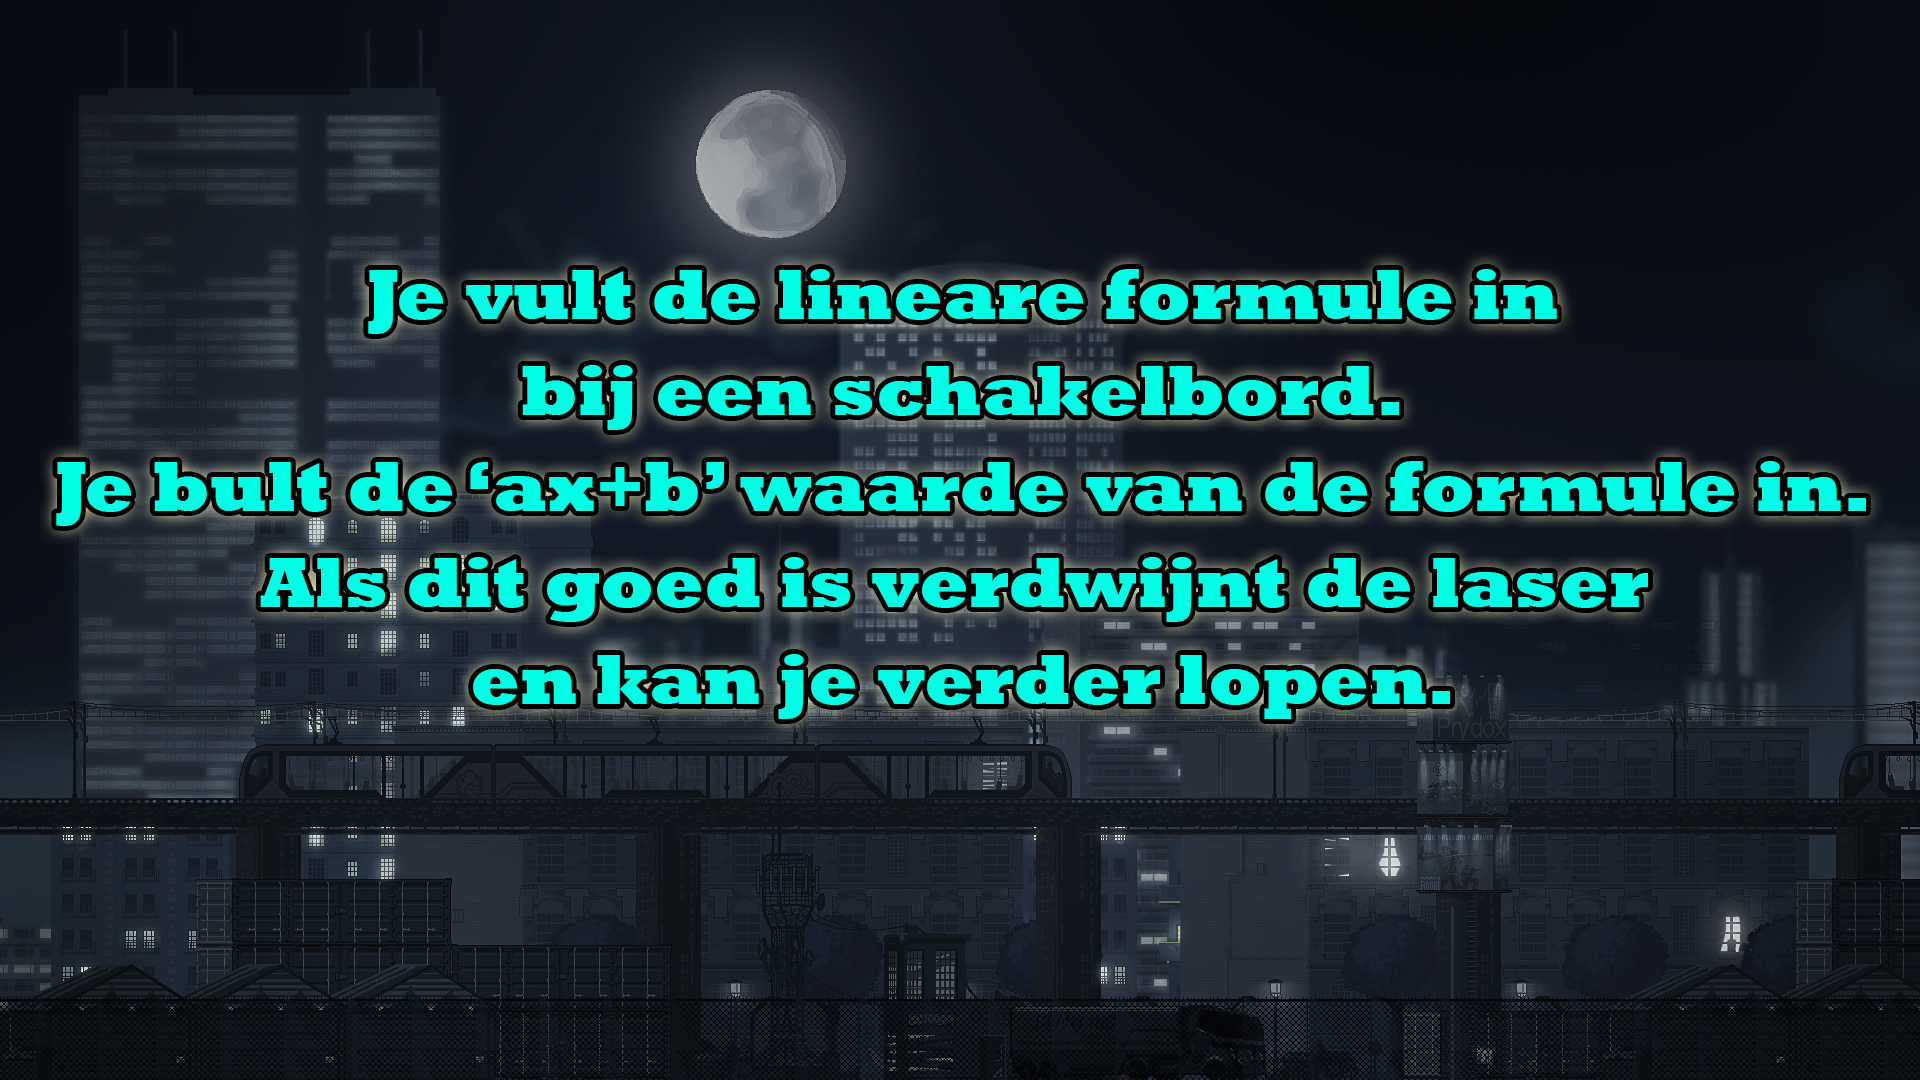
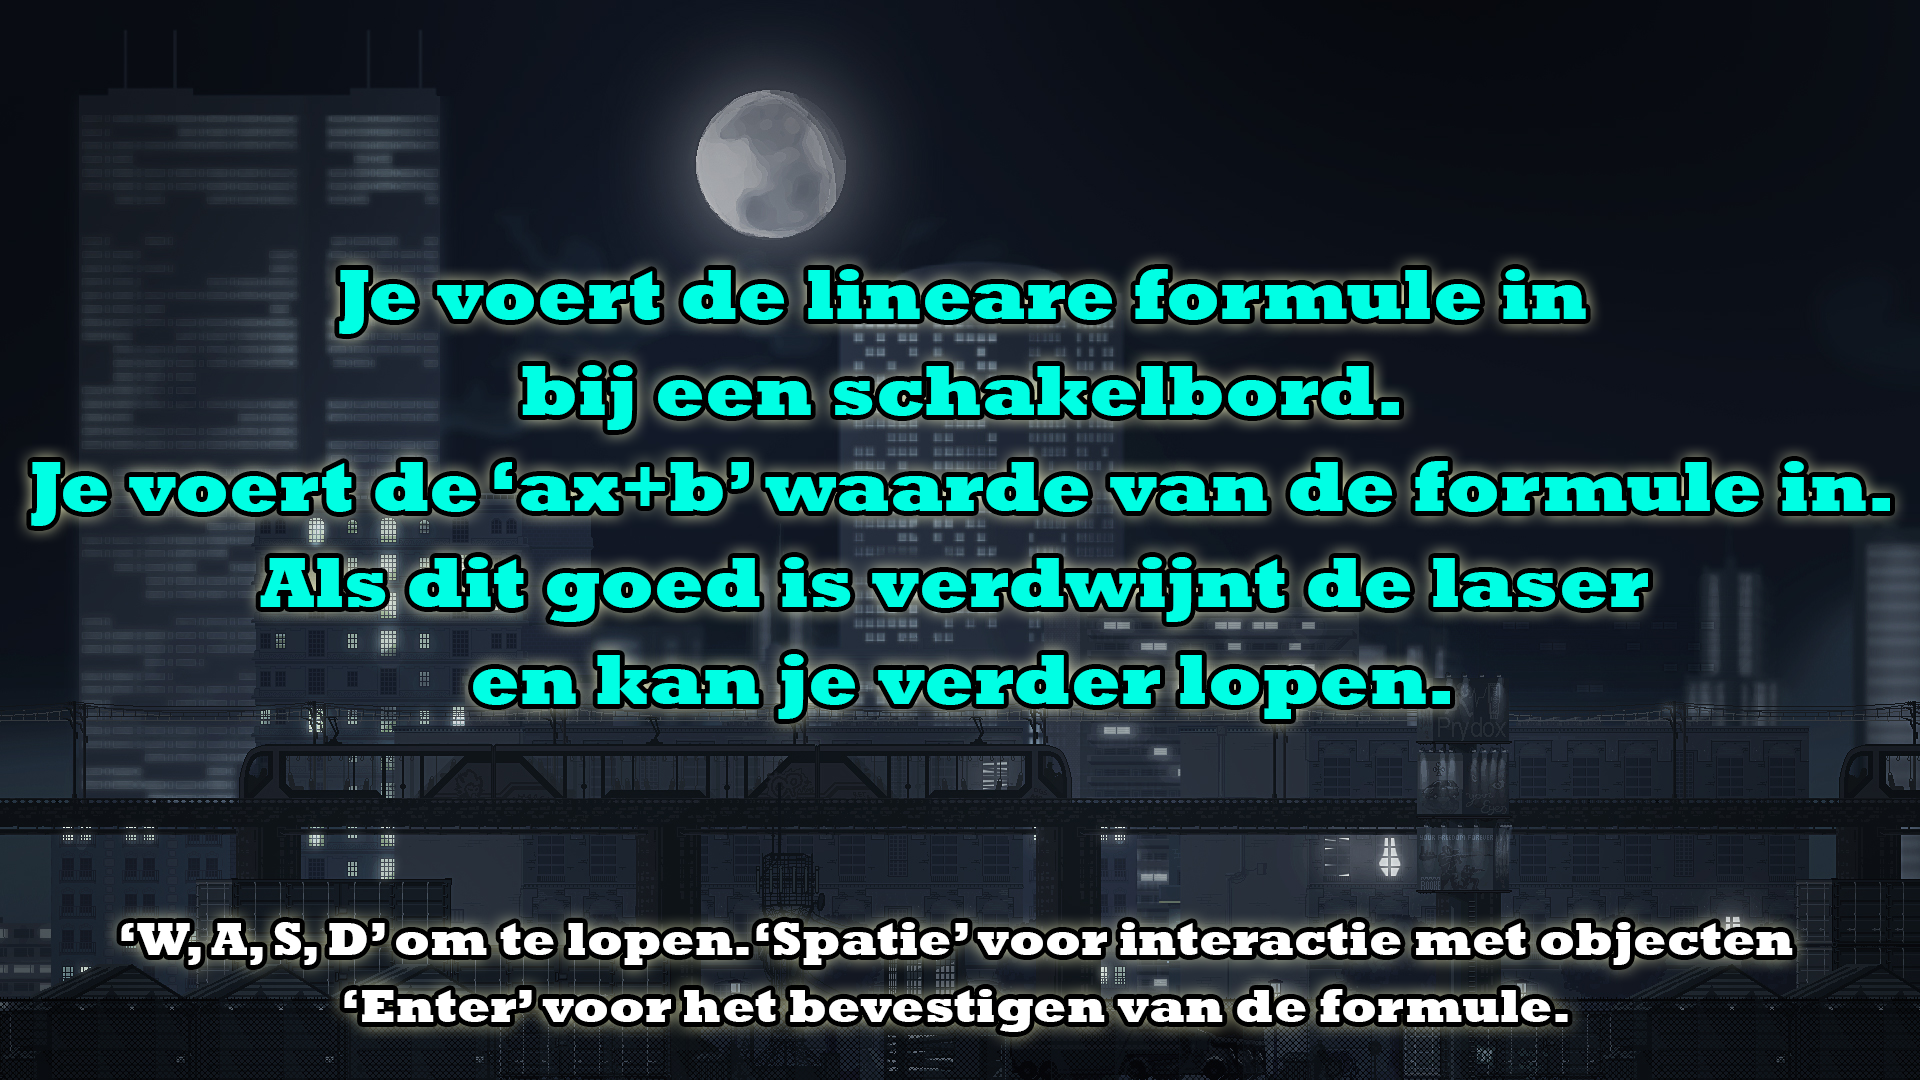
Explanation screen changed

Changed region(s): [[0.0625, 0.825, 0.9375, 0.9778], [0.0, 0.3972, 1.0, 0.4889], [0.1562, 0.2139, 0.8438, 0.3361]]

diff --git a/GameStates/ExplanationStateTwo.cs b/GameStates/ExplanationStateTwo.cs
@@ -16,7 +16,7 @@ namespace FancyKlepto.GameStates
 
         int timer;
         int seconds;
-        int offset = 400;
+        int offset = 250;
 
         public ExplanationStateTwo()
         {
